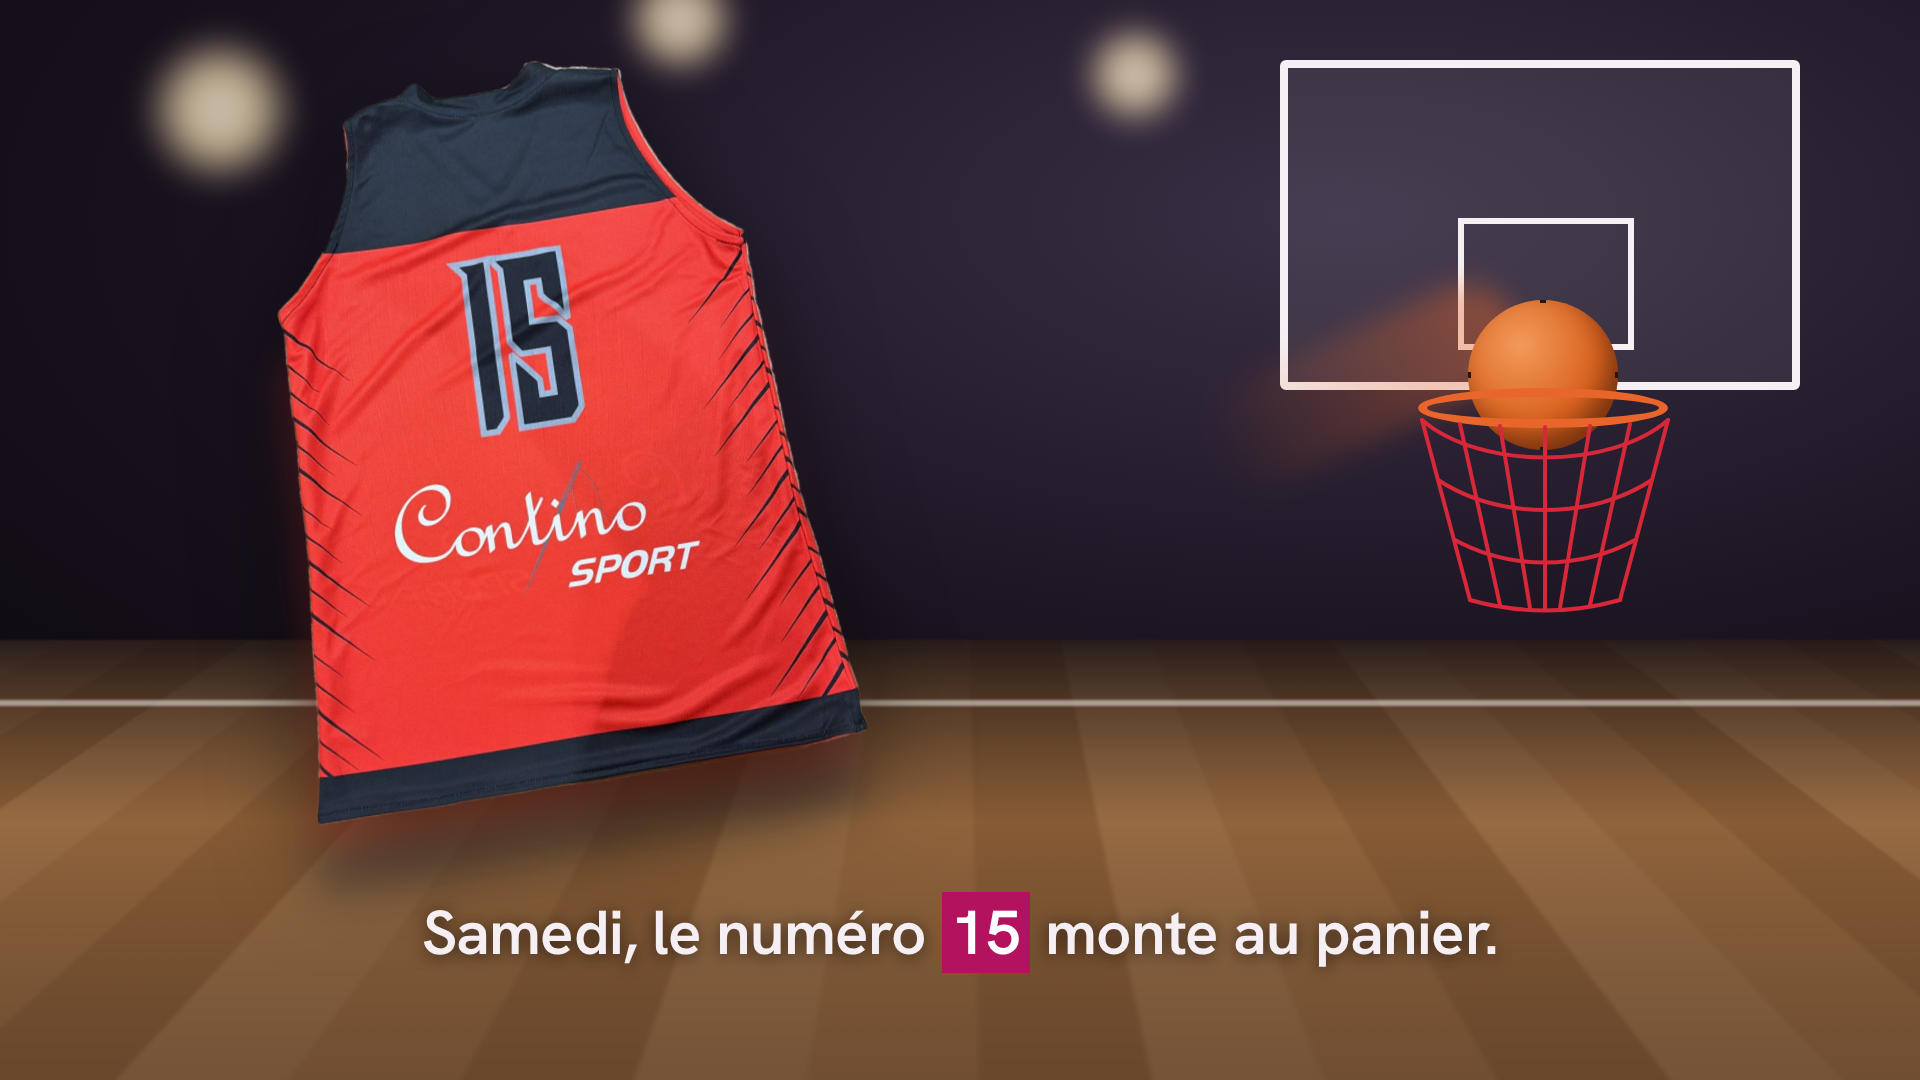
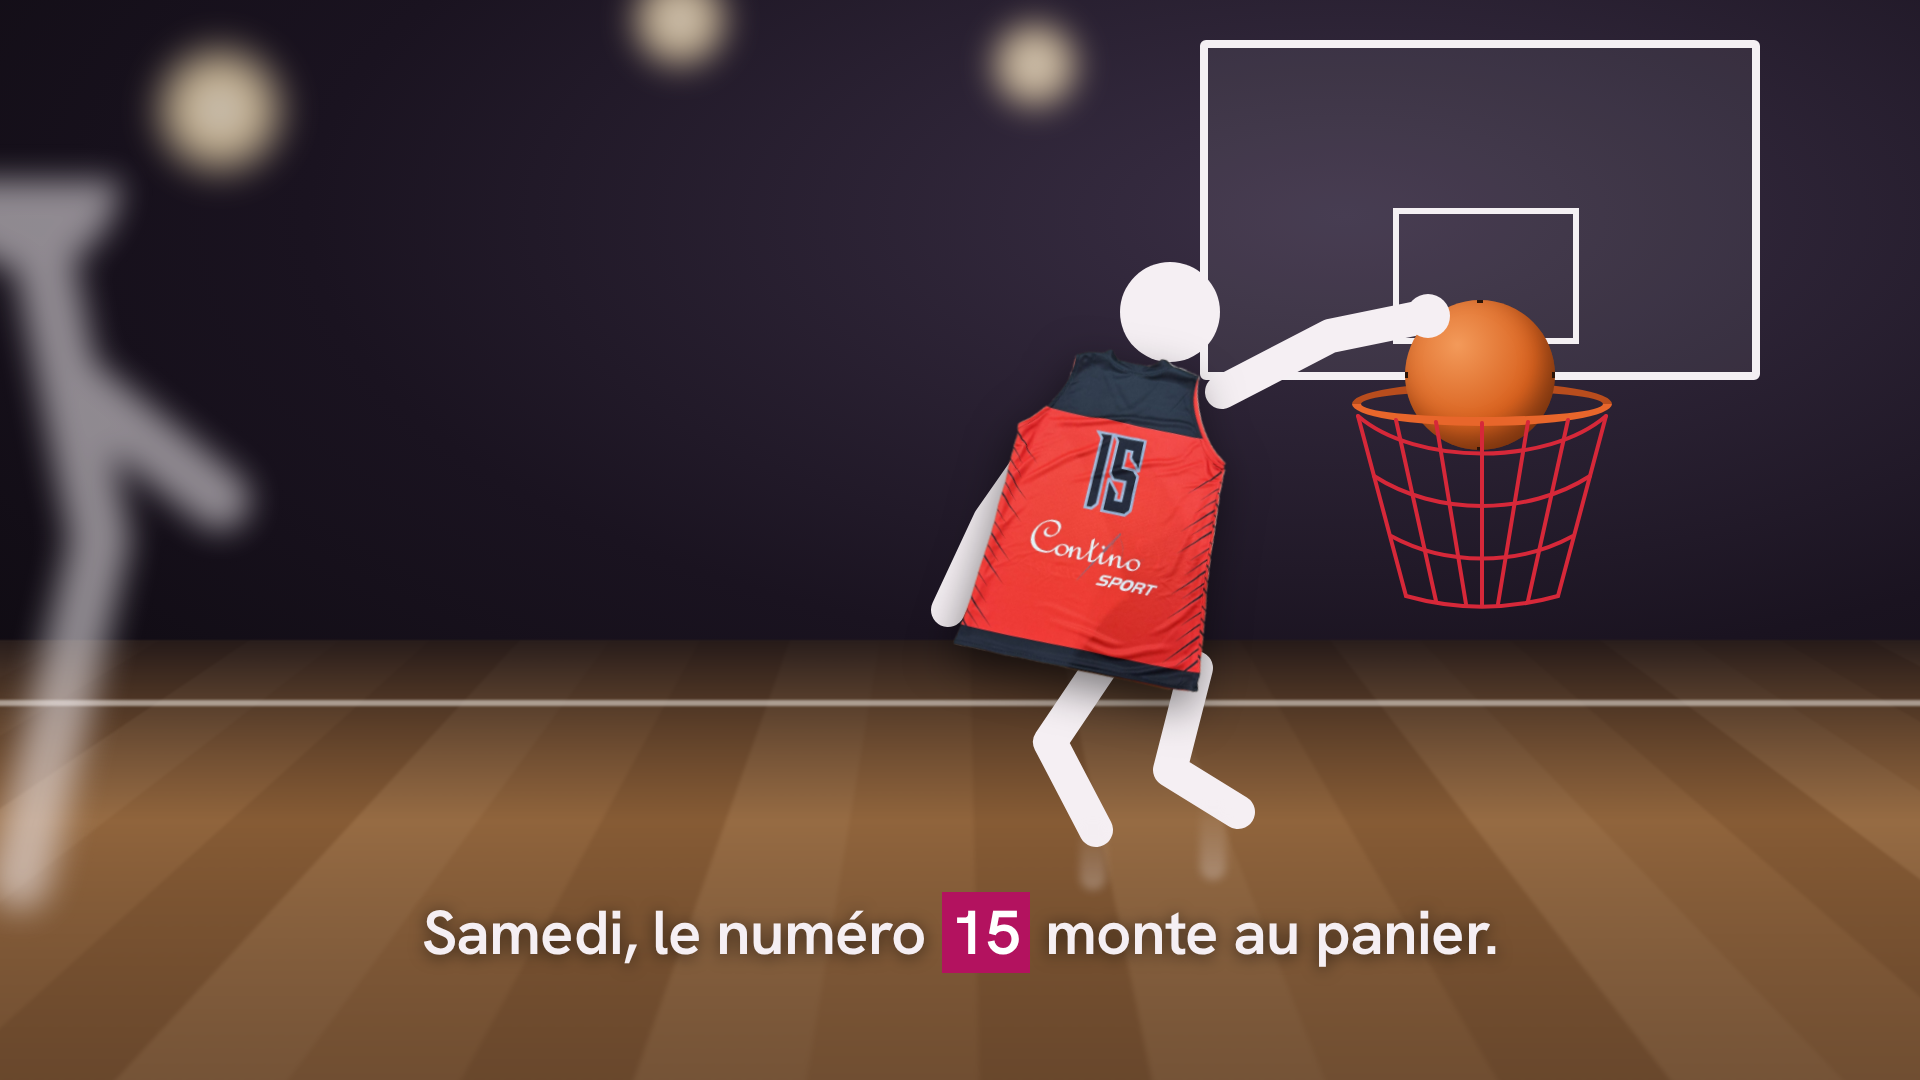
Direction A retenue, A3 avec un joueur stickman qui smashe
Claude-Session: https://claude.ai/code/session_01QifGj41uN88b3ohKbpjN54

Changed region(s): [[0.0, 0.0611, 0.4688, 0.8556], [0.4688, 0.0, 0.9375, 0.825], [0.7188, 0.1833, 0.8438, 0.2139]]

diff --git a/ifs-maillot-club/styleframes/A3.html b/ifs-maillot-club/styleframes/A3.html
@@ -10,40 +10,56 @@
 .floor::after{content:"";position:absolute;inset:0;background:linear-gradient(180deg,rgba(15,11,18,.85),rgba(15,11,18,.2) 40%,rgba(15,11,18,.6))}
 .court-line{position:absolute;left:-200px;right:-200px;top:700px;height:6px;background:#f2ede6;opacity:.55;filter:blur(1px)}
 /* panier : planche, cercle orange, filet tracé par le fil rouge */
-.board{position:absolute;left:1280px;top:60px;width:520px;height:330px;border:8px solid #f4f0f3;border-radius:6px;background:rgba(255,255,255,.07)}
-.board::after{content:"";position:absolute;left:170px;top:150px;width:164px;height:120px;border:6px solid #f4f0f3}
-.rim{position:absolute;left:1418px;top:388px;width:250px;height:40px;border:9px solid #E8662B;border-radius:50%}
-.net{position:absolute;left:1400px;top:400px;width:290px;height:220px}
-/* ballon qui passe le cercle, avec traînée */
-.ball{position:absolute;left:1468px;top:300px;width:150px;height:150px;border-radius:50%;
+.board{position:absolute;left:1200px;top:40px;width:560px;height:340px;border:8px solid #f4f0f3;border-radius:6px;background:rgba(255,255,255,.07)}
+.board::after{content:"";position:absolute;left:185px;top:160px;width:174px;height:124px;border:6px solid #f4f0f3}
+.rim-back{position:absolute;left:1352px;top:382px;width:260px;height:44px;border:9px solid #b84d1d;border-radius:50%;clip-path:inset(0 0 50% 0)}
+.rim-front{position:absolute;left:1352px;top:382px;width:260px;height:44px;border:9px solid #E8662B;border-radius:50%;clip-path:inset(50% 0 0 0)}
+.net{position:absolute;left:1336px;top:396px;width:292px;height:220px}
+/* ballon écrasé dans le cercle */
+.ball{position:absolute;left:1405px;top:300px;width:150px;height:150px;border-radius:50%;
   background:radial-gradient(circle at 35% 30%,#f39a5a,#d9621f 55%,#9c3d0e);box-shadow:inset -10px -14px 24px rgba(0,0,0,.35)}
 .ball::before,.ball::after{content:"";position:absolute;inset:0;border-radius:50%;border:3px solid #2a1408}
 .ball::before{clip-path:inset(0 48% 0 48%)} .ball::after{clip-path:inset(48% 0 48% 0)}
-.trail{position:absolute;left:1200px;top:330px;width:330px;height:110px;background:linear-gradient(90deg,transparent,rgba(232,102,43,.45));filter:blur(14px);transform:rotate(-24deg);border-radius:60px}
-/* le dos n°15 qui monte : sujet, net, légère inclinaison, flou de mouvement sur les bords bas */
-.player{position:absolute;left:270px;top:60px;width:560px;height:735px;background:url(../assets/img/maillot-dos-detoure.png) center/contain no-repeat;
-  transform:rotate(-7deg);filter:drop-shadow(0 40px 50px rgba(0,0,0,.6))}
-.ghost{position:absolute;left:270px;top:130px;width:560px;height:735px;background:url(../assets/img/maillot-dos-detoure.png) center/contain no-repeat;
-  transform:rotate(-7deg);filter:blur(18px);opacity:.35}
-.arm{position:absolute;width:120px;height:430px;border-radius:60px;background:linear-gradient(90deg,#6b4a37,#8a634b 50%,#5d3f2f);transform-origin:50% 100%}
+/* le joueur : stickman de dos qui porte le vrai maillot n° 15 et smashe */
+.player{position:absolute;left:0;top:0;width:1920px;height:1080px}
+.jersey{position:absolute;left:1028px;top:356px;width:250px;height:328px;background:url(../assets/img/maillot-dos-detoure.png) center/contain no-repeat;
+  transform:rotate(14deg);transform-origin:50% 0;filter:drop-shadow(0 16px 22px rgba(0,0,0,.5))}
+/* traînées du saut sous le joueur */
+.streak{position:absolute;width:26px;border-radius:13px;background:linear-gradient(180deg,rgba(245,239,243,.0),rgba(245,239,243,.28));filter:blur(4px)}
+/* filet qui bouge : avant-plan flou d'un autre joueur, coupé par le bord gauche */
+.fg{position:absolute;left:-160px;top:180px;width:420px;height:760px;filter:blur(16px);opacity:.55}
 </style></head><body>
 <div class="stage">
   <div class="gym"></div>
   <div class="light" style="left:140px;top:30px"></div><div class="light" style="left:620px;top:-40px;width:120px;height:120px"></div>
-  <div class="light" style="left:1080px;top:20px;width:110px;height:110px"></div>
+  <div class="light" style="left:980px;top:10px;width:110px;height:110px"></div>
   <div class="floor"></div><div class="court-line"></div>
   <div class="board"></div>
-  <div class="trail"></div>
+  <div class="rim-back"></div>
+  <!-- jambes et bras derrière le maillot -->
+  <svg class="player" viewBox="0 0 1920 1080">
+    <g stroke="#F5EFF3" stroke-width="34" stroke-linecap="round" stroke-linejoin="round" fill="none">
+      <path d="M1112 650 L1050 742 L1096 830"/>                 <!-- jambe gauche repliée -->
+      <path d="M1196 668 L1170 770 L1238 812"/>                 <!-- jambe droite repliée -->
+      <path d="M1060 420 L990 520 L948 610"/>                   <!-- bras gauche en balancier -->
+      <path d="M1222 392 L1330 336 L1418 318"/>                 <!-- bras droit tendu vers le cercle -->
+    </g>
+    <circle cx="1170" cy="312" r="50" fill="#F5EFF3"/>          <!-- tête -->
+  </svg>
+  <div class="jersey"></div>
   <div class="ball"></div>
-  <div class="rim"></div>
-  <svg class="net" viewBox="0 0 290 220">
+  <div class="rim-front"></div>
+  <svg class="net" viewBox="0 0 292 220">
     <g fill="none" stroke="#D62839" stroke-width="4" stroke-linecap="round">
-      <path d="M22 20 L70 200 M60 24 L100 205 M100 26 L130 208 M145 27 L145 210 M190 26 L160 208 M230 24 L190 205 M268 20 L220 200"/>
-      <path d="M22 20 C 80 70 210 70 268 20 M38 80 C 100 120 190 120 252 80 M55 140 C 110 170 180 170 235 140 M70 200 C 120 214 170 214 220 200"/>
+      <path d="M22 20 L70 200 M60 24 L100 205 M100 26 L130 208 M146 27 L146 210 M192 26 L162 208 M232 24 L192 205 M270 20 L222 200"/>
+      <path d="M22 20 C 80 70 212 70 270 20 M38 80 C 100 120 192 120 254 80 M55 140 C 110 170 182 170 237 140 M70 200 C 120 214 172 214 222 200"/>
     </g>
   </svg>
-  <div class="ghost"></div>
-  <div class="player"></div>
+  <!-- main sur le ballon, au-dessus du cercle -->
+  <svg class="player" viewBox="0 0 1920 1080"><circle cx="1428" cy="316" r="22" fill="#F5EFF3"/></svg>
+  <div class="streak" style="left:1080px;top:820px;height:70px"></div>
+  <div class="streak" style="left:1200px;top:800px;height:80px"></div>
+  <svg class="fg" viewBox="0 0 420 760"><g stroke="#F5EFF3" stroke-width="60" stroke-linecap="round" fill="none"><path d="M200 60 L260 360 L180 700"/><path d="M230 200 L380 320"/></g><circle cx="190" cy="0" r="90" fill="#F5EFF3"/></svg>
   <div class="sub dark">Samedi, le numéro <span class="box">15</span> monte au panier.</div>
 </div>
 </body></html>

diff --git a/ifs-maillot-club/DIRECTIONS.md b/ifs-maillot-club/DIRECTIONS.md
@@ -48,8 +48,9 @@ logo final.
   avant-plan à gauche. Sol d'encre.
 - A2 (31,6 s, « couleurs ») : macro de la maille blanche ; le fil arrive de la gauche et se dissout dans le tissu, le
   vrai motif du maillot apparaît en halo ; plaque de presse floue en avant-plan haut.
-- A3 (39,3 s, « panier ») : salle de nuit, le dos n° 15 monte vers le cercle, le ballon passe, le filet est tracé par
-  le fil rouge ; projecteurs flous au fond.
+- A3 (39,3 s, « panier ») : salle de nuit, un joueur en stickman, de dos, porte le vrai maillot n° 15 et smashe :
+  main sur le ballon dans le cercle, filet tracé par le fil rouge ; projecteurs flous au fond, un second joueur flou en
+  avant-plan (retour d'Antoine du 03/10/2026 : un maillot ne monte pas au panier tout seul).
 
 ## B. « L'établi »
 
@@ -100,5 +101,5 @@ Signatures : « l'iris du hublot » (ouverture et fermeture circulaires, 5 occur
 
 ## Choix
 
-Direction retenue : à choisir par Antoine.
+Direction retenue : A « Le fil rouge » (Antoine, 03/10/2026), avec un joueur stickman qui porte le maillot sur le terrain.
 Images : `styleframes/png/planche-A.png`, `planche-B.png`, `planche-C.png` (et chaque image en 1920 × 1080).
